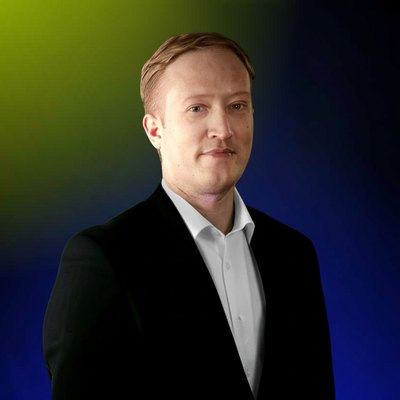
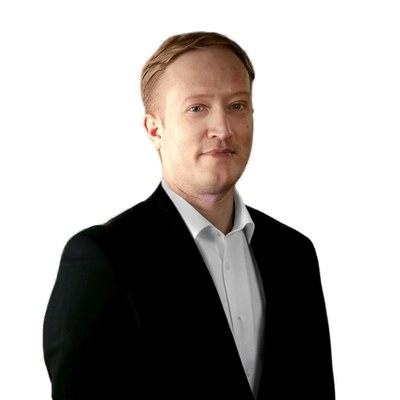
White-background headshot; desktop floating Call me back button
Claude-Session: https://claude.ai/code/session_011M4CZsUh3J1paUmaf53caY

diff --git a/index.html b/index.html
@@ -175,6 +175,14 @@ footer.site a{text-decoration:none}
 footer.site a:hover{text-decoration:underline}
 @media(max-width:700px){footer.site .wrap{grid-template-columns:1fr}}
 
+/* desktop floating call-back button */
+.fab{position:fixed;right:1.5rem;bottom:1.5rem;z-index:30;display:none;align-items:center;gap:.6rem;background:var(--sold);color:#fff;font-weight:700;font-size:1.02rem;padding:.95rem 1.3rem .95rem 1.1rem;border-radius:999px;text-decoration:none;box-shadow:0 14px 30px -10px rgba(224,38,60,.6);transition:transform .12s ease,background .15s ease}
+.fab:hover{background:var(--sold-dark);transform:translateY(-1px)}
+.fab svg{width:20px;height:20px}
+.fab .pulse{position:absolute;inset:0;border-radius:999px;border:2px solid var(--sold);opacity:0;pointer-events:none}
+@media(min-width:821px){.fab{display:inline-flex}}
+@media(prefers-reduced-motion:no-preference){.fab .pulse{animation:fabpulse 2.4s ease-out infinite}@keyframes fabpulse{0%{transform:scale(1);opacity:.7}100%{transform:scale(1.35);opacity:0}}}
+
 /* mobile sticky bar */
 .bar{position:fixed;bottom:0;left:0;right:0;display:none;gap:.6rem;padding:.7rem .9rem calc(.7rem + env(safe-area-inset-bottom));background:var(--card);border-top:1px solid var(--line);z-index:30}
 .bar .btn{flex:1;justify-content:center;padding:.85rem .6rem}
@@ -387,6 +395,12 @@ footer.site a:hover{text-decoration:underline}
     </ul>
   </div>
 </footer>
+
+<a class="fab" href="#callback" aria-label="Request a call back">
+  <span class="pulse"></span>
+  <svg viewBox="0 0 24 24" fill="none" stroke="currentColor" stroke-width="2.2" stroke-linecap="round" stroke-linejoin="round"><path d="M22 16.9v3a2 2 0 0 1-2.2 2 19.8 19.8 0 0 1-8.6-3.1 19.5 19.5 0 0 1-6-6A19.8 19.8 0 0 1 2.1 4.2 2 2 0 0 1 4.1 2h3a2 2 0 0 1 2 1.7c.1.9.4 1.8.7 2.7a2 2 0 0 1-.5 2.1L8 9.8a16 16 0 0 0 6 6l1.3-1.3a2 2 0 0 1 2.1-.4c.9.3 1.8.6 2.7.7a2 2 0 0 1 1.9 2z"/></svg>
+  Call me back
+</a>
 
 <div class="bar">
   <a class="btn btn-wa" href="https://wa.me/27723886161">WhatsApp</a>
